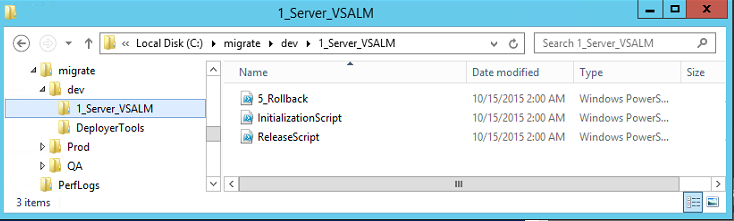
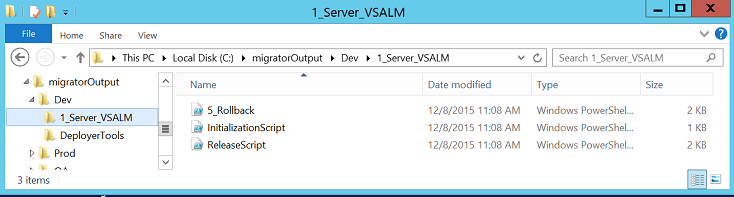
Update HOL, add new comparison section and revise README.

diff --git a/doc/RMArchitecture-comparison-between-RM2013-2015-and-RMvNext-for-VSTS.md b/doc/RMArchitecture-comparison-between-RM2013-2015-and-RMvNext-for-VSTS.md
@@ -1,0 +1,53 @@
+Architecture differences between Release Management 2013 and Release Management 2015 and Release Management (RM vNext) for Visual Studio for Team Services 
+===========================================================================================================================================================
+
+Release Management (RM vNext) for Visual Studio Team Services is the next version of the release management tool for Visual Studio. The current version of the Release Management service has been available as part of Visual Studio Online since November 2014.
+
+This release was limited with
+
+-   No browser-based interface integrated into Visual Studio Online
+
+-   Deploy only to Microsoft Azure, and not to on-premises servers
+
+RM vNext for Visual Studio for Team Services addresses these and other limitations, and offers many more improvements. It is not just a change of user interface from the old WPF client to the new web interface. Instead, it is based on a new architecture, and a new set of simplified concepts. You will find that this service:
+
+-   Is easy to use
+
+-   Works for all of your apps – Windows and Linux, Java and .Net
+
+-   Provides traceability between various ALM entities such as builds, environments, work items, etc.
+
+The improvements include:
+
+-   Familiar web based interface that is aligned with the rest of VSO. Getting started, authoring a release definition, and creating releases can all be done more easily in the web interface than in the current product
+
+-   The Release hub is integrated into Team projects.
+
+-   **Fewer concepts.** “Release Paths” and “Release Templates” in the current version have been replaced by a single concept called *Release Definitions*.
+
+Along with RM 2015 (server /client) edition, the new RM services (vNext) have been made available for VSTS users. *RM services (vNext) support for on premise TFS will be available in a future release.* [1]
+
+**The main differences between Release Management 2013 and Release Management (RM vNext) for Visual Studio for Team Services**
+
+-   Release management 2013 and 2015 RTM (Server and Client) is designed to support integration with on premise/azure environments via a WPF interface. It was based on XAML workflows and tasks that were hard to extend and maintain.
+
+-   RM vNext for Visual Studio Team Services is based on the same distributed task execution infrastructure as Build vNext. All the tasks in your Build and RM flows execute on a pool of agents. Build and RM share the same agent.
+
+-   The security infrastructure of RM vNext is different from the current version in that it does not manage its own groups and permissions. New permissions are introduced in VSO for RM vNext, such as “Create release definitions”, “Create releases”, and “Manage approvers”
+
+Both Release Management 2013 and RM vNext for Visual Studio for Team Services support the new build services (Build vNext) on premise TFS and VSTS .
+
+Comparison across the versions and features, requirements
+
+|                                                     | Release Management 2013                                            | Release Management 2015                                                   | RM vNext Service for Visual Studio Team Services                       |
+|-----------------------------------------------------|--------------------------------------------------------------------|---------------------------------------------------------------------------|------------------------------------------------------------------------|
+| Integrates with Visual Studio Team Services         | Yes                                                                | Yes                                                                       | Yes                                                                    |
+| Requires server installation                        | Yes                                                                | Yes                                                                       | No                                                                     |
+| Requires client installation                        | Yes                                                                | Yes                                                                       | No                                                                     |
+| Integration with on premise hardware (environments) | Yes                                                                | Yes                                                                       | No                                                                     |
+| Azure integration                                   | Yes                                                                | Yes                                                                       | Yes                                                                    |
+| Additional references                               | [Automate deployments with Release Management](https://msdn.microsoft.com/library/dn217874%28v%3Dvs.120%29.aspx) | [Release Management for Visual Studio 2015 and TFS](https://www.visualstudio.com/en-us/get-started/release/rm-for-vs2015-vs) | [Release Management for VSTS preview version](https://msdn.microsoft.com/Library/vs/alm/release/overview-rmpreview) |
+
+For additional information on Release Management in Visual Studio Team Services, refer to [Release Management vNext Plans](http://blogs.msdn.com/b/visualstudioalm/archive/2015/08/26/release-management-vnext-plans.aspx).
+
+[1] [Release Management vNext Plans](../customXml/item1.xml).

diff --git a/doc/Lab-1-Using-the-RMWorkFlowMigrator-to-create-release-scripts.md b/doc/Lab-1-Using-the-RMWorkFlowMigrator-to-create-release-scripts.md
@@ -21,7 +21,7 @@ The migration tool makes a direct, read only SQL connection to the Release Manag
 1. Login as the *vsalm\brian* account.
 1. Copy the ZIP file from the Hyper-V host to the desktop on the ALM VM.
 1. Unblock and unzip the zip file to a new folder \(e.g. **c:\migrate**\).
-1. Open a command prompt, create a directory to accept the results from the tools \(e.g., **MD \migratorOutput**\) and change directory to that folder \(e.g., **cd \migratorOutput**\).
+1. Open a command prompt, create a directory to accept the results from the tools \(e.g., **MD c:\migratorOutput**\) and change directory to that folder \(e.g., **cd c:\migratorOutput**\).
 1. Execute the **RMWorkflowMigrator.exe** executable \(e.g., **c:\migrate\RMWorkFlowMigrator.exe**\). This will display the command line usage and parameters:
 
 		C:\migrate\RMWorkflowMigrator.exe 
@@ -116,7 +116,7 @@ To migrate a stage of a template the correct parameters need to be passed to the
 	- As we will want to export a number of stages, it is a good idea to export each stage to a different output folder using -o parameter  
 4. Repeat the export with the revised parameters:
 
-        c:\migrate\RMWorkflowMigrator.exe -n . -d ReleaseManagement -t "Fabrikam Call Center"  -s Dev -v -o Dev
+        c:\migrate\RMWorkflowMigrator.exe -n . -d ReleaseManagement -t "Fabrikam Call Center"  -s Dev -v -o c:\migratorOutput\Dev
         Microsoft.ALMRangers.RMWorkflowMigrator 1.0.5795.40004
         Copyright c2015  Microsoft Corporation
         
@@ -156,14 +156,14 @@ To migrate a stage of a template the correct parameters need to be passed to the
         
         Release workflow generated	
 
-5. In the **Dev** folder you will find a sub-folder for each server in the stage. This will contain a number of scripts for the release process, rollback steps and initialization. There is also a **DeployerTools** folder that contains all scripts and tools referenced by the exported scripts:
+5. In the **c:\migratorOutput\Dev** folder you will find a sub-folder for each server in the stage. This will contain a number of scripts for the release process, rollback steps and initialization. There is also a **DeployerTools** folder that contains all scripts and tools referenced by the exported scripts:
 
     ![Export Folder Screenshot](Images/HOLScreenShot1.png)
 
 6.  The export process needs to be repeated for the other two stages in the pipeline
 
-	    c:\migrate\RMWorkflowMigrator.exe -n . -d ReleaseManagement -t "Fabrikam Call Center"  -s QA -v -o QA
-	    c:\migrate\RMWorkflowMigrator.exe -n . -d ReleaseManagement -t "Fabrikam Call Center"  -s Prod -v -o Prod
+	    c:\migrate\RMWorkflowMigrator.exe -n . -d ReleaseManagement -t "Fabrikam Call Center"  -s QA -v -o c:\migratorOutput\QA
+	    c:\migrate\RMWorkflowMigrator.exe -n . -d ReleaseManagement -t "Fabrikam Call Center"  -s Prod -v -o c:\migratorOutput\Prod
 	
 > **Note** This lab makes an assumption that you need to extract a work-flow for each stage because the stages differ from one another. If the stages **do not differ**, the only difference is in the parameter values used in the scripts.  This means you could just create different versions of the initial script with the correct parameter values for each stage.
 

diff --git a/README.md b/README.md
@@ -28,6 +28,7 @@ However, since both of them leverage Powershell heavily, it is possible to parti
 - [Announcement: Moving from the earlier version of Release management service to the new one in Visual Studio Team Services](http://blogs.msdn.com/b/visualstudioalm/archive/2015/11/19/moving-from-the-earlier-version-of-release-management-service-to-the-new-one-in-visual-studio-team-services.aspx)
 - [Release Management for VSTS preview version](https://msdn.microsoft.com/Library/vs/alm/Release/overview-rmpreview)
 - [Migrating Release Management 2013/2015 to Release Management Service](http://incyclesoftware.com/2015/11/migrating-release-management-20132015-to-release-management-service/)
+- [Architecture differences between Release Management 2013 and Release Management 2015 and Release Management (RM vNext) for Visual Studio for Team Services](doc/RMArchitecture-comparison-between-RM2013-2015-and-RMvNext-for-VSTS.md)
 
 **Guides**
 
@@ -37,6 +38,10 @@ However, since both of them leverage Powershell heavily, it is possible to parti
 
 - [Lab 1 - Using the RMWorkFlowMigrator to create release scripts](doc/Lab-1-Using-the-RMWorkFlowMigrator-to-create-release-scripts.md)
 - [Lab 2 - Using the resulting release scripts in a release pipeline](doc/Lab-2-Using-the-resulting-release-scripts-in-a-release-pipeline.md)
+
+### Collection of Information ###
+
+We do not collect any personal information when you use the migration tool. When you use the migration tool with Internet connectivity, basic usage metrics is collected to help improve our products and services, and for statistical analysis. Consult the [RM Workflow Migrator Guide](doc/RM-Workflow-Migrator-Guide.md) for options of disabling the metrics collection at run-time.
 
 ### The team ###
 Daniel Mann, Dave McKinstry, David Pitcher, Derrick Cawthon, Josh Garverick, Josh Sommer, Niel Zeeman, Richard Albrecht, Richard Fennell, Sergio Romero, Shashank Bansal, Shaun Mullis, Stawinski Fabio, Vladimir Gusarov, William Salazar
